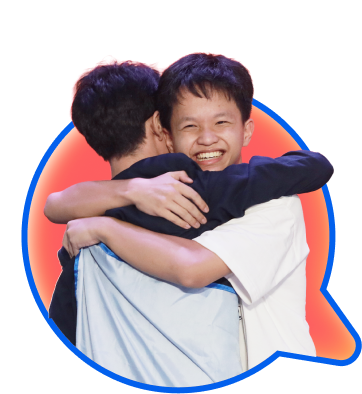
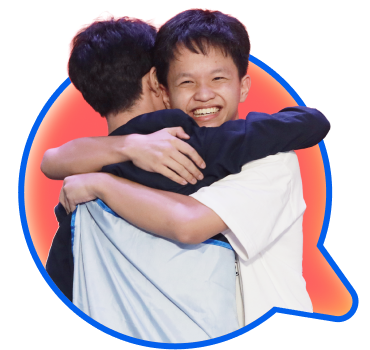
fix(mobile): reduce small doodle mini bubbles size in section 1 on mobile

diff --git a/all_sections.html b/all_sections.html
@@ -1385,12 +1385,12 @@
 
                     <div class="community-cards-container">
                         <div class="community-card card-left">
-                            <p>Là cộng đồng gồm những con người cùng gặp gỡ và<br class="card-br-mobile"> kiến tạo nên
-                                không gian của tư duy và tiếng nói.</p>
+                            <p>Socio - Là cộng đồng gồm những con người cùng gặp gỡ và kiến tạo nên không gian của tư
+                                duy và tiếng nói.</p>
                         </div>
                         <div class="community-card card-right">
-                            <p>Là sự liên kết, là khả năng đặt câu hỏi, tư duy nhìn nhận<br class="card-br-mobile"> và
-                                kết nối những góc nhìn khác nhau.</p>
+                            <p>Logic - Là sợi dây liên kết bằng sự thấu hiểu, sự trưởng thành qua từng câu hỏi và khả
+                                năng vươn xa nhờ kết nối đa góc nhìn.</p>
                         </div>
                     </div>
                 </div>

diff --git a/index.html b/index.html
@@ -1385,12 +1385,12 @@
 
                     <div class="community-cards-container">
                         <div class="community-card card-left">
-                            <p>Là cộng đồng gồm những con người cùng gặp gỡ và<br class="card-br-mobile"> kiến tạo nên
-                                không gian của tư duy và tiếng nói.</p>
+                            <p>Socio - Là cộng đồng gồm những con người cùng gặp gỡ và kiến tạo nên không gian của tư
+                                duy và tiếng nói.</p>
                         </div>
                         <div class="community-card card-right">
-                            <p>Là sự liên kết, là khả năng đặt câu hỏi, tư duy nhìn nhận<br class="card-br-mobile"> và
-                                kết nối những góc nhìn khác nhau.</p>
+                            <p>Logic - Là sợi dây liên kết bằng sự thấu hiểu, sự trưởng thành qua từng câu hỏi và khả
+                                năng vươn xa nhờ kết nối đa góc nhìn.</p>
                         </div>
                     </div>
                 </div>

diff --git a/css/section_mix.css b/css/section_mix.css
@@ -1884,9 +1884,9 @@ a.pill-btn-yellow:hover {
     .bubbles-row .img-doodle,
     .mini-bubble-item,
     .img-doodle {
-        width: 60px !important;
-        height: 60px !important;
-        padding: 10px !important;
+        width: 40px !important;
+        height: 40px !important;
+        padding: 6px !important;
         box-sizing: border-box !important;
         overflow: hidden !important;
         border-radius: 50% !important;
